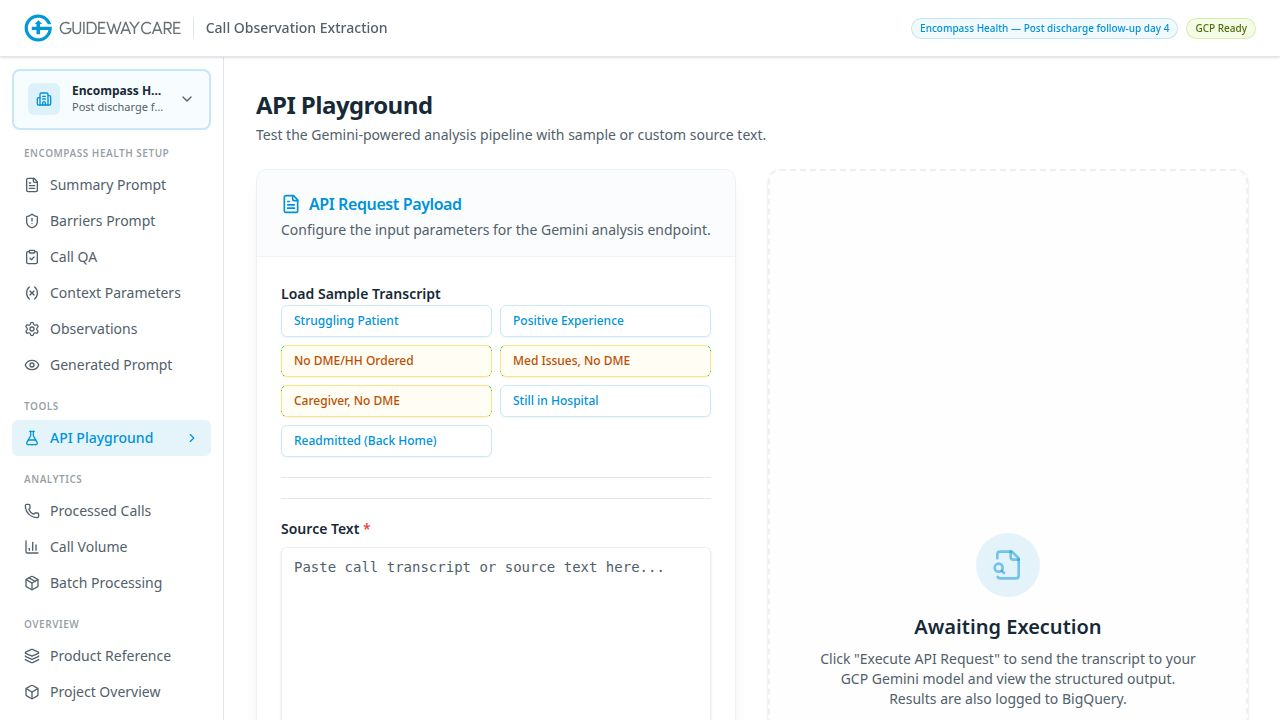
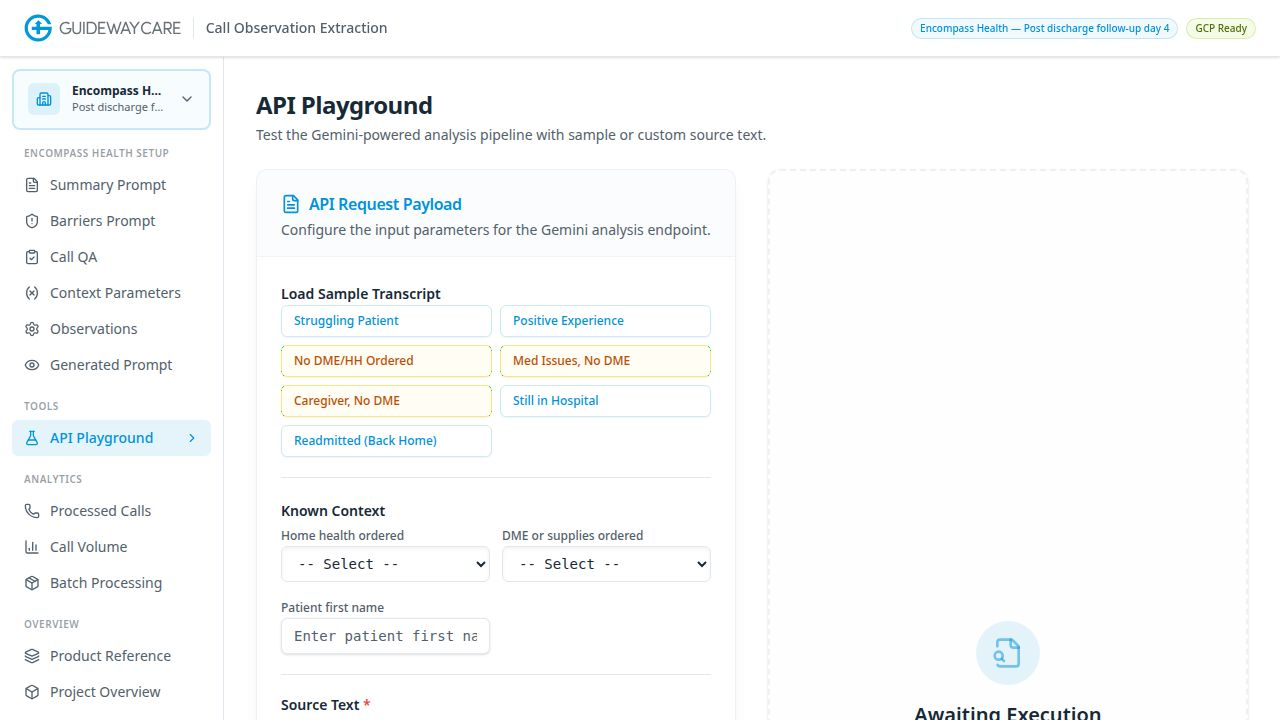
Add unique processing identifiers to batch and analyze routes
Introduce `processing_id` (UUID) to `server/batch-job.ts` and `server/routes.ts` to track individual processing runs in BigQuery, ensuring consistency across all entry points.

Replit-Commit-Author: Agent
Replit-Commit-Session-Id: 424d9a8e-b19d-456f-a04b-17f4d89e9978
Replit-Commit-Checkpoint-Type: full_checkpoint
Replit-Commit-Event-Id: a5570e18-2838-41c8-ae4b-2784ffd36790
Replit-Commit-Screenshot-Url: https://storage.googleapis.com/screenshot-production-us-central1/c7e2bf30-0b7c-40d0-8252-ea213ab008ee/424d9a8e-b19d-456f-a04b-17f4d89e9978/rRko5zh
Replit-Helium-Checkpoint-Created: true

diff --git a/server/batch-job.ts b/server/batch-job.ts
@@ -2,7 +2,7 @@ import { getPendingBatchItems, updateBatchItemStatus, initializeBatchTable, ensu
 import { insertCallInfo, insertCallObservations, insertCallQAResults } from "./bigquery";
 import { analyzeTranscript, buildPromptTemplate, DEFAULT_SUMMARY_INSTRUCTION } from "./gemini";
 import { storage } from "./storage";
-import { createHash } from "crypto";
+import { createHash, randomUUID } from "crypto";
 
 async function getPromptWithVersion(clientPathwayId: number) {
   const activeObs = await storage.getActiveObservations(clientPathwayId);
@@ -142,8 +142,10 @@ async function processBatch() {
       const blandTs = (item as any).bland_created_at?.value || (item as any).bland_created_at || null;
       const callDate = blandTs ? new Date(blandTs).toISOString() : null;
 
+      const processingId = randomUUID();
       await insertCallInfo({
         callId: sourceId,
+        processingId,
         careFlowId: item.care_flow_id || null,
         callDate,
         sourceType: item.source_type || "bland_call",

diff --git a/server/routes.ts b/server/routes.ts
@@ -84,6 +84,7 @@ export async function registerRoutes(
     }
 
     const resolvedSourceId = source_id || `call_${randomUUID().slice(0, 12)}`;
+    const analyzeProcessingId = randomUUID();
     const clientPathwayId = req.body.client_pathway_id ? Number(req.body.client_pathway_id) : null;
 
     try {
@@ -142,6 +143,7 @@ export async function registerRoutes(
 
       await insertCallInfo({
         callId: resolvedSourceId,
+        processingId: analyzeProcessingId,
         careFlowId: care_flow_id || null,
         processedDatetime: processed_datetime || processedAt,
         sourceType: source_type || null,
@@ -193,6 +195,7 @@ export async function registerRoutes(
 
       await insertCallInfo({
         callId: resolvedSourceId,
+        processingId: analyzeProcessingId,
         processedAt: new Date().toISOString(),
         processingTimeMs: processingTime,
         transcriptLength: source_text.length,